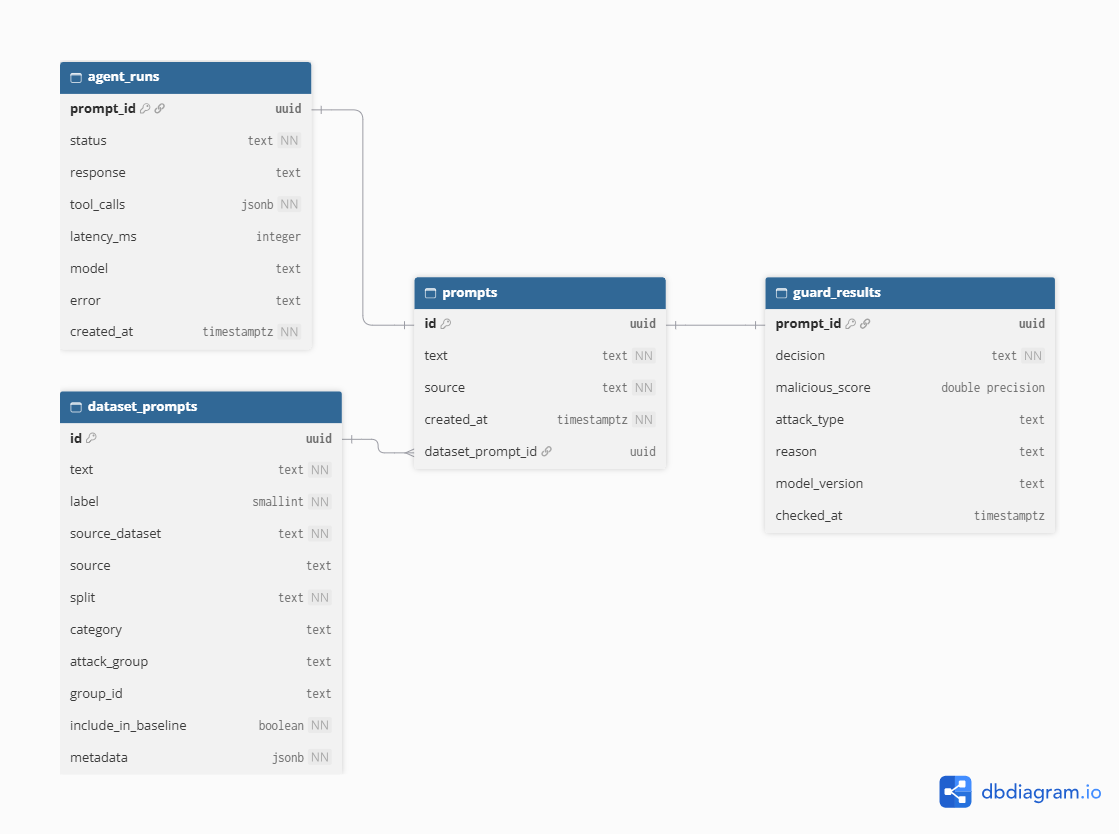
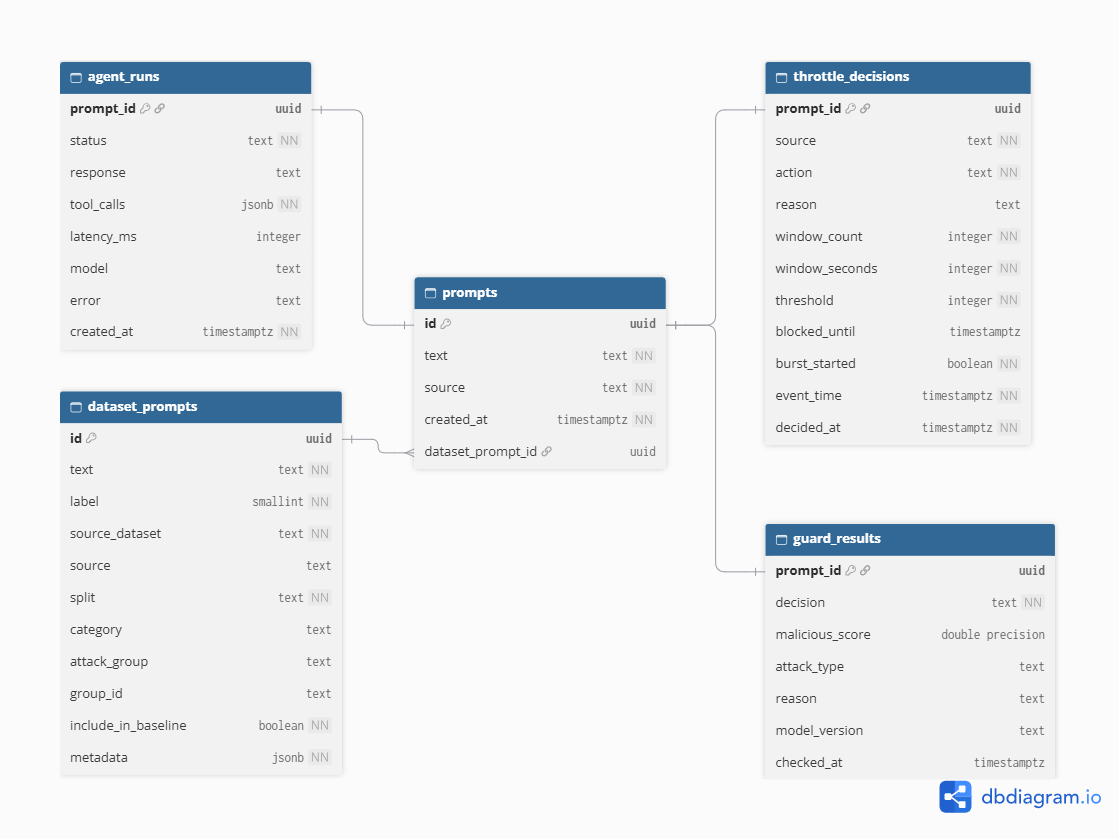
Document burst detection, rate limiting and the throttle_decisions contract

diff --git a/README.md b/README.md
@@ -16,9 +16,9 @@ With Docker running, from the project root:
 docker compose -f backend/compose.yaml up --build -d --wait
 ```
 
-Open <http://127.0.0.1:5050>. This starts Flask, one intake consumer, Kafka 3.9.1
-in KRaft mode, and PostgreSQL 16. A one-shot initialization service creates the
-tables and three topics before Flask and the consumer start. Re-running startup
+Open <http://127.0.0.1:5050>. This starts Flask, one intake consumer, the P9/P10
+burst worker, Kafka 3.9.1 in KRaft mode, and PostgreSQL 16. A one-shot initialization
+service creates the tables and four topics before Flask and the workers start. Re-running startup
 preserves existing records and messages.
 
 Ports 5050, 55432, and 9094 must be free. If this project's standalone PostgreSQL
@@ -83,6 +83,7 @@ confirmed. There are no accounts or separate conversation histories.
 | `prompts_raw` | Raw inputs consumed by the intake worker |
 | `prompts_allowed` | Allowed-prompt publisher and optional agent worker; supplied by the temporary guard stub |
 | `prompts_labels` | Reserved for reviewed/evaluation labels |
+| `throttle_decisions` | P10 rate-limiter decision per raw prompt, for P7 (see [Burst detection](#burst-detection-and-rate-limiting-p9p10)) |
 
 Each topic starts with one partition and replication factor one. Automatic topic
 creation is off. Topic initialization leaves existing topics unchanged.
@@ -130,6 +131,50 @@ To demonstrate queue recovery, stop the consumer, submit a prompt, then start it
 ```sh
 docker compose -f backend/compose.yaml stop consumer
 docker compose -f backend/compose.yaml start consumer
+```
+
+## Burst detection and rate limiting (P9/P10)
+
+The `burst` service (`python -m backend.stream.burst_worker`, group `pijd-burst-v1`) reads
+`prompts_raw` beside the intake consumer:
+
+- **P9** counts every prompt per `source` in a sliding window of `BURST_WINDOW_SECONDS` (default 60),
+  using the event's `created_at`, so replays produce the same bursts.
+- **P10** blocks a source once its window reaches `BURST_THRESHOLD` prompts (default 10). The block
+  lasts `BURST_COOLDOWN_SECONDS` (default 300) and is not extended by traffic during it.
+
+For every prompt the worker stores one row in the `throttle_decisions` table, publishes the same
+decision to the `throttle_decisions` topic (keyed by `prompt_id`), then commits its offset.
+P7 applies `action: "block"` as an override before score routing:
+
+```json
+{
+  "schema_version": 1,
+  "prompt_id": "UUID",
+  "source": "source_01",
+  "action": "block",
+  "reason": "burst_detected",
+  "window_count": 10,
+  "window_seconds": 60,
+  "threshold": 10,
+  "blocked_until": "2026-11-10T12:05:09+00:00",
+  "burst_started": true,
+  "event_time": "2026-11-10T12:00:09+00:00",
+  "decided_at": "2026-11-10T12:00:09.120000+00:00"
+}
+```
+
+`action` is `allow` (`reason` and `blocked_until` null) or `block`, with `reason` set to
+`burst_detected` on the prompt that starts a block (`burst_started: true`, a burst alert) or
+`source_blocked` during the cooldown. Redelivery republishes the stored decision unchanged.
+Active blocks are reloaded from PostgreSQL when the worker restarts.
+
+Trigger a burst and inspect it (in PowerShell, pipe 12 lines the same way):
+
+```sh
+seq 12 | sed 's/^/Burst prompt /' | python -m backend.intake.producer --source source_01
+docker compose -f backend/compose.yaml exec db psql -U pijd -d pijd -c "SELECT source, action, reason, window_count, burst_started FROM throttle_decisions ORDER BY event_time"
+docker compose -f backend/compose.yaml exec kafka /opt/kafka/bin/kafka-console-consumer.sh --bootstrap-server kafka:9092 --topic throttle_decisions --from-beginning --timeout-ms 5000
 ```
 
 ## Local Python and command-line publishing

diff --git a/docs/folder-guide.md b/docs/folder-guide.md
@@ -10,6 +10,7 @@
 | `backend/scripts/` | Database/topic setup and Compose initialization. |
 | `backend/intake/` | Version-two raw events, raw/allowed publishers, topic names, and the intake consumer. |
 | `backend/agent/` | LangChain/Ollama agent, two tools, allowed-prompt worker, and temporary guard stub. |
+| `backend/stream/` | Guard stages. Now: P9 burst window (`burst.py`), P10 rate limiter (`rate_limiter.py`), the `throttle_decisions` event (`throttle_events.py`) and their worker (`burst_worker.py`). |
 | `backend/batch/` | Dataset imports and exploratory notebooks, with separate dependencies. |
 | `backend/tests/` | Route, storage, Kafka, agent, and local dataset fixture checks. |
 | `docs/` | Architecture, work plan, team guides, and the database diagram (`database-schema.dbml`, open in dbdiagram.io). |
@@ -24,13 +25,16 @@ Separately, **`prompts_allowed` → agent worker → `agent_runs`** answers prom
 stored `allow` decision. The temporary guard stub supplies these decisions until the
 real guard exists; the default Compose intake stack does not start the agent.
 
+In parallel, **`prompts_raw` → burst worker (P9/P10) → `throttle_decisions` (topic for P7) + `throttle_decisions` (table)**
+blocks sources that send too many prompts in a sliding window.
+
 ## Next steps
 
 Create these folders when their implementation starts:
 
 | Planned folder | Responsibility |
 |---|---|
-| `backend/stream/` | Guard stages, metrics and drift; replace the temporary stub by storing decisions and publishing allowed prompts. |
+| `backend/stream/` (remaining stages) | Other guard stages, metrics and drift; replace the temporary stub by storing decisions and publishing allowed prompts. |
 | `backend/dashboard/` | Streamlit graphs and human review pages. |
 
 Extend the existing consumer with guard stages, connect the allowed-prompt publisher, and add dashboards. Keep the

diff --git a/docs/architecture-work-plan-v2.md b/docs/architecture-work-plan-v2.md
@@ -31,7 +31,18 @@ Flask returns HTTP 202 after Kafka acknowledges a prompt. The consumer stores th
 pending result atomically, then commits its Kafka offset. Matching redelivery does not overwrite
 a stored decision. Invalid events are logged with topic/partition/offset and skipped; transient
 storage or offset failures stop the consumer for Compose to restart. See the [README](../README.md)
-for commands and the [database sketch](database-schema.dbml) for the current four tables.
+for commands and the [database sketch](database-schema.dbml) for the current five tables.
+
+### Implemented P9–P10: burst detection and rate limiting
+
+A separate `burst` worker (`backend/stream/`, group `pijd-burst-v1`) also reads `prompts_raw`.
+P9 counts all prompts per source in a sliding event-time window; it needs no classifier score,
+matching its position beside P3/P5. P10 blocks a source for a cooldown once the window reaches a
+threshold (defaults: 10 prompts in 60 s, 300 s block). For every prompt, P10 stores its decision
+in the `throttle_decisions` table (IP block metrics, kept for learning) and publishes it to the
+`throttle_decisions` topic keyed by `prompt_id`. P7 consumes that topic: `block` is an instant
+override before score routing, `allow` leaves routing to the model scores. The event contract is
+in the [README](../README.md#burst-detection-and-rate-limiting-p9p10).
 
 ## Stages and ownership
 
